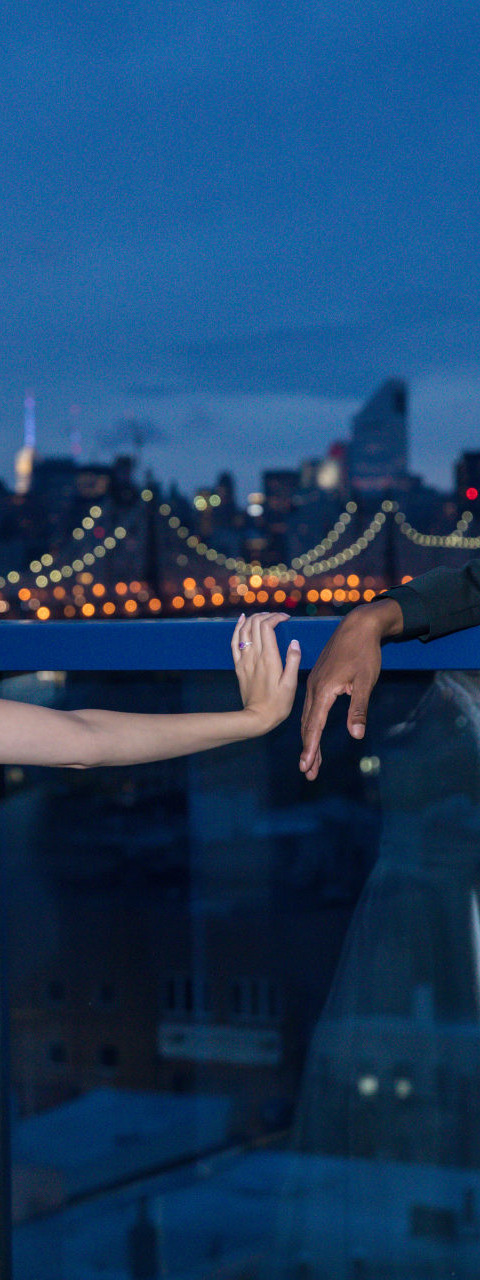
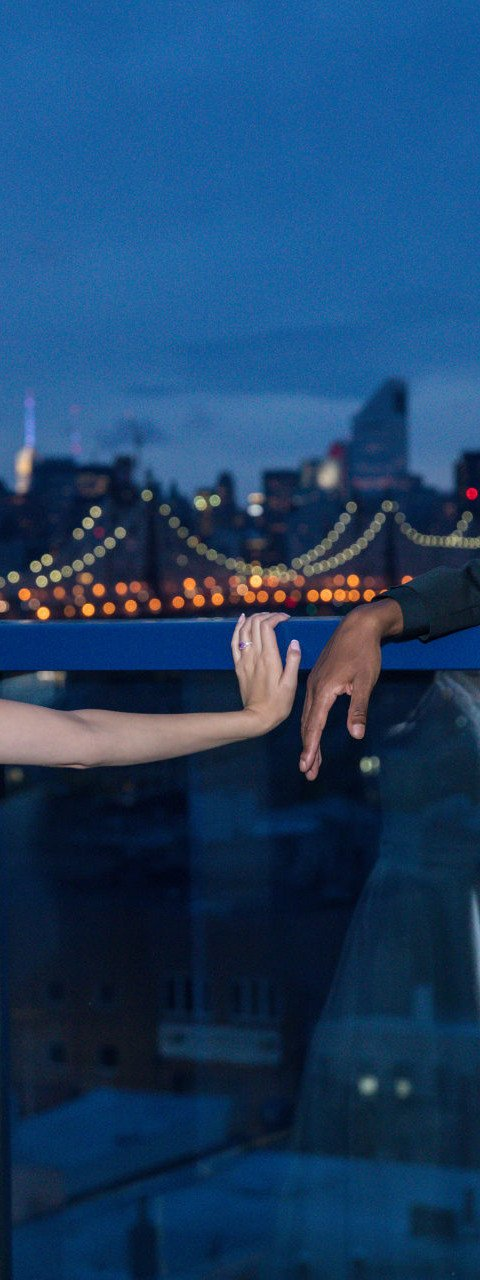
Optimized some photos. Async'd remaining JS files on index.html

diff --git a/index.html b/index.html
@@ -67,13 +67,13 @@
 		</footer>
 
 		<!-- jQuery first, then Popper, then Bootstrap JS. -->
-		<script src="https://code.jquery.com/jquery-3.2.1.slim.min.js" integrity="sha384-KJ3o2DKtIkvYIK3UENzmM7KCkRr/rE9/Qpg6aAZGJwFDMVNA/GpGFF93hXpG5KkN" crossorigin="anonymous"></script>
-		<script src="https://cdnjs.cloudflare.com/ajax/libs/popper.js/1.12.9/umd/popper.min.js" integrity="sha384-ApNbgh9B+Y1QKtv3Rn7W3mgPxhU9K/ScQsAP7hUibX39j7fakFPskvXusvfa0b4Q" crossorigin="anonymous"></script>
-		<script src="https://maxcdn.bootstrapcdn.com/bootstrap/4.0.0/js/bootstrap.min.js" integrity="sha384-JZR6Spejh4U02d8jOt6vLEHfe/JQGiRRSQQxSfFWpi1MquVdAyjUar5+76PVCmYl" crossorigin="anonymous"></script>
+		<script async src="https://code.jquery.com/jquery-3.2.1.slim.min.js" integrity="sha384-KJ3o2DKtIkvYIK3UENzmM7KCkRr/rE9/Qpg6aAZGJwFDMVNA/GpGFF93hXpG5KkN" crossorigin="anonymous"></script>
+		<script async src="https://cdnjs.cloudflare.com/ajax/libs/popper.js/1.12.9/umd/popper.min.js" integrity="sha384-ApNbgh9B+Y1QKtv3Rn7W3mgPxhU9K/ScQsAP7hUibX39j7fakFPskvXusvfa0b4Q" crossorigin="anonymous"></script>
+		<script async src="https://maxcdn.bootstrapcdn.com/bootstrap/4.0.0/js/bootstrap.min.js" integrity="sha384-JZR6Spejh4U02d8jOt6vLEHfe/JQGiRRSQQxSfFWpi1MquVdAyjUar5+76PVCmYl" crossorigin="anonymous"></script>
 		
 		<!-- angularjs -->
-		<script src="https://ajax.googleapis.com/ajax/libs/angularjs/1.6.6/angular.min.js"></script>
-		<script src="https://ajax.googleapis.com/ajax/libs/angularjs/1.6.6/angular-route.js"></script>
+		<script async src="https://ajax.googleapis.com/ajax/libs/angularjs/1.6.6/angular.min.js"></script>
+		<script async src="https://ajax.googleapis.com/ajax/libs/angularjs/1.6.6/angular-route.js"></script>
 		<!--script src="https://ajax.googleapis.com/ajax/libs/angularjs/1.6.6/angular-animate.js"></script-->
 		<script async src="./js/routing.js"></script>
 

diff --git a/pages/home.html b/pages/home.html
@@ -8,7 +8,7 @@
             	<span class="text-center">
             		<h1 class="card-text quote-text display-2">"We could write a whole amazing novel on how great <span class="pink">Marisa</span> is."</h1>
             		<h4 class="card-text quote-sig text-right">- Kat & James</h4>
-            		<a href="#/kat-james" class="btn btn-primary btn-lg">Show me more!</a>
+            		<!--a href="#/kat-james" class="btn btn-primary btn-lg">Show me more!</a-->
         		</span>	
         	</div>
       	</div>
@@ -55,7 +55,10 @@
 			<a class="display-4" href="#/events">
                 <img class="card-img img-fluid img-button" src="./img/coordinate_694_flip.jpg">
         		<div class="card-img-overlay d-flex align-items-center justify-content-center no-padding">
-                    <h3 style="color: black; font-weight: 200" class="pink-bg">E V E N T S</h3>
+                    <span>
+                        <h3 style="color: black; font-weight: 200" class="pink-bg">E V E N T</h3>
+                        <h3 style="color: black; font-weight: 200" class="pink-bg">S E R V I C E S</h3>
+                    </span>
         		</div>
             </a>
         </div>
